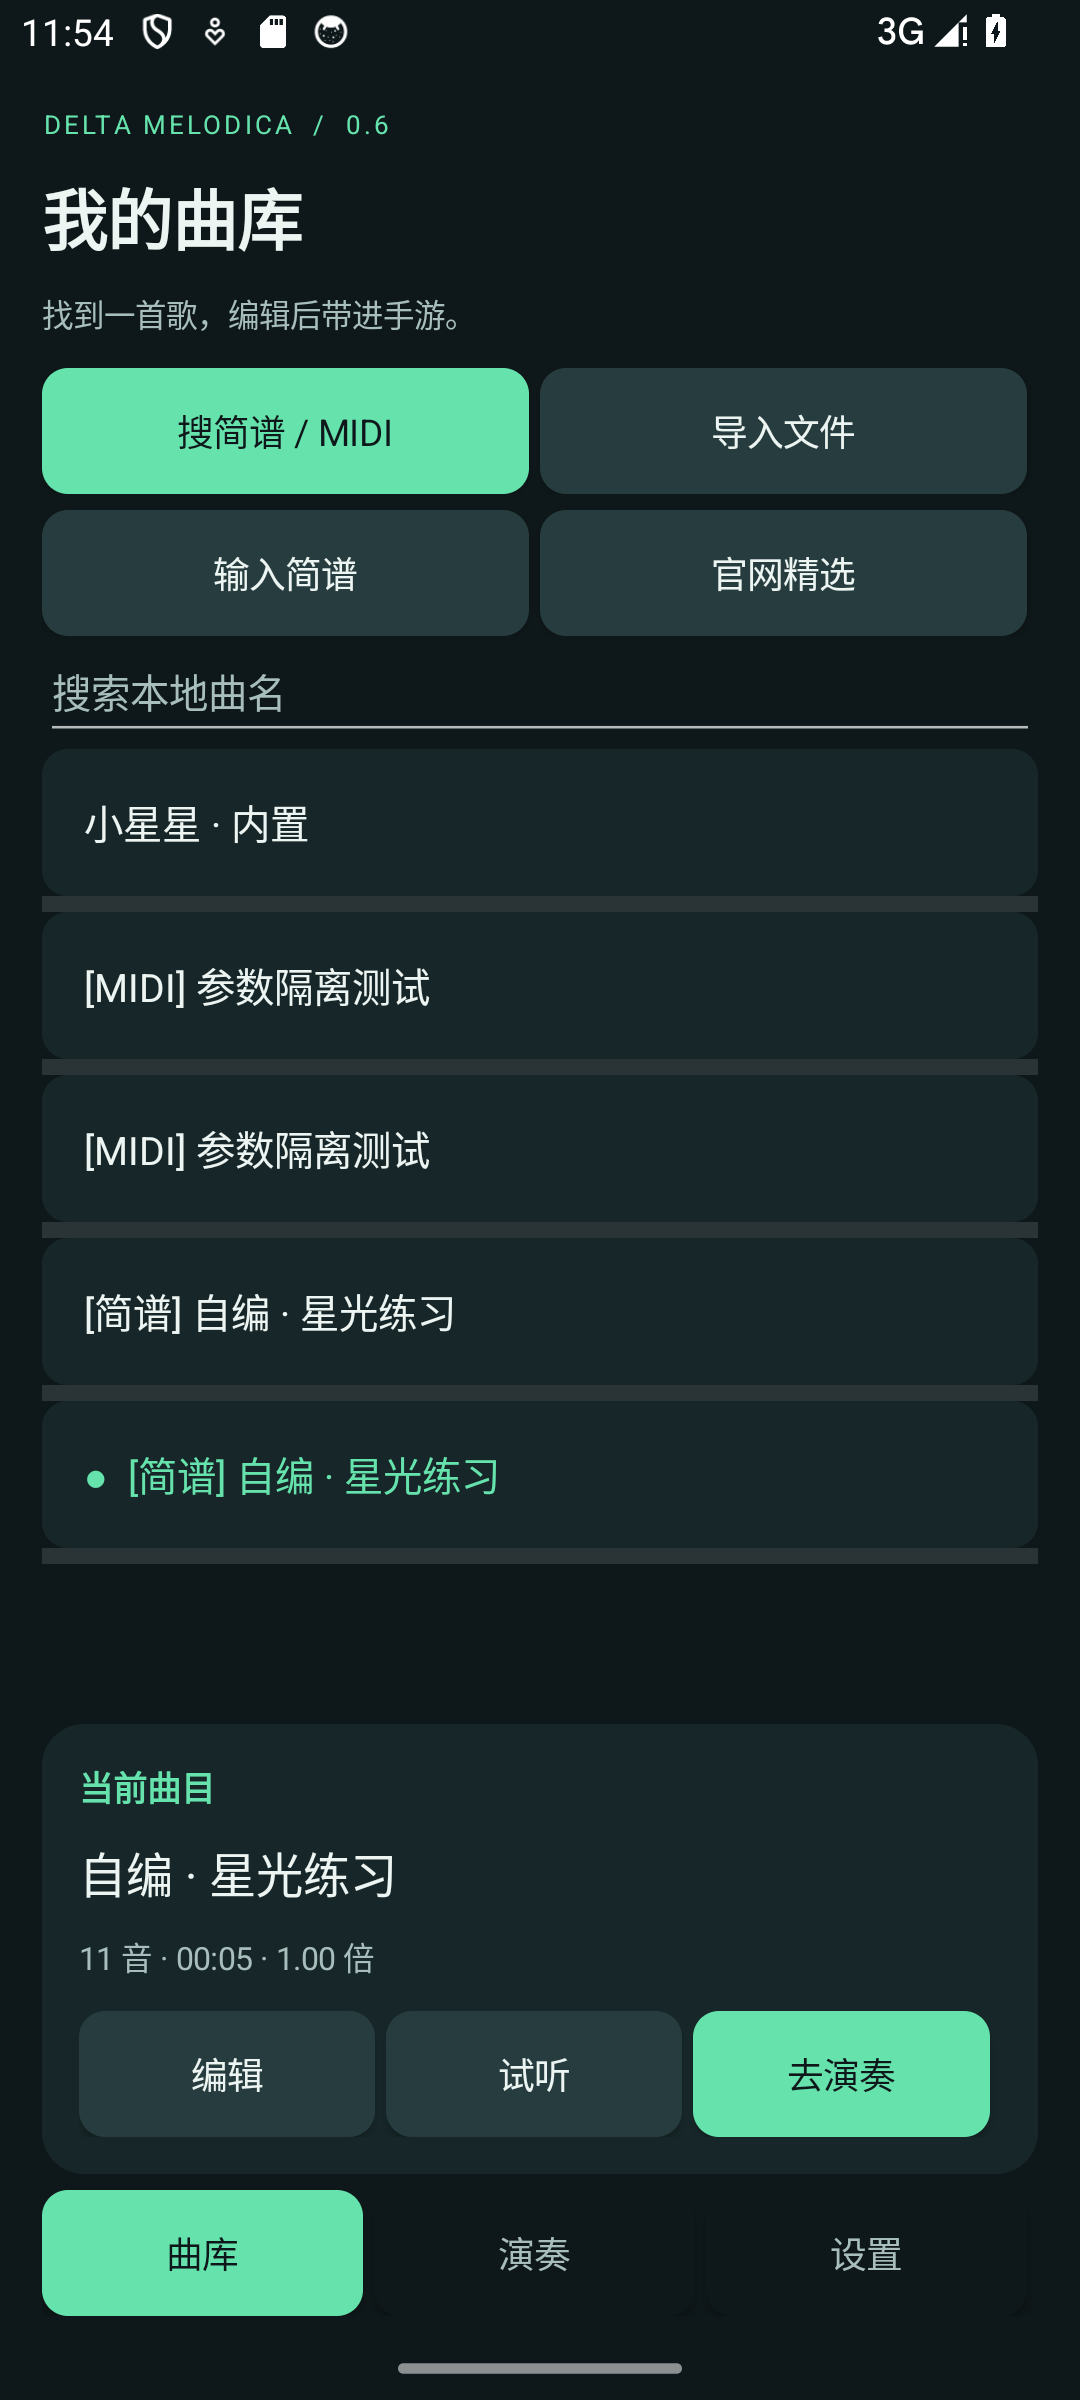
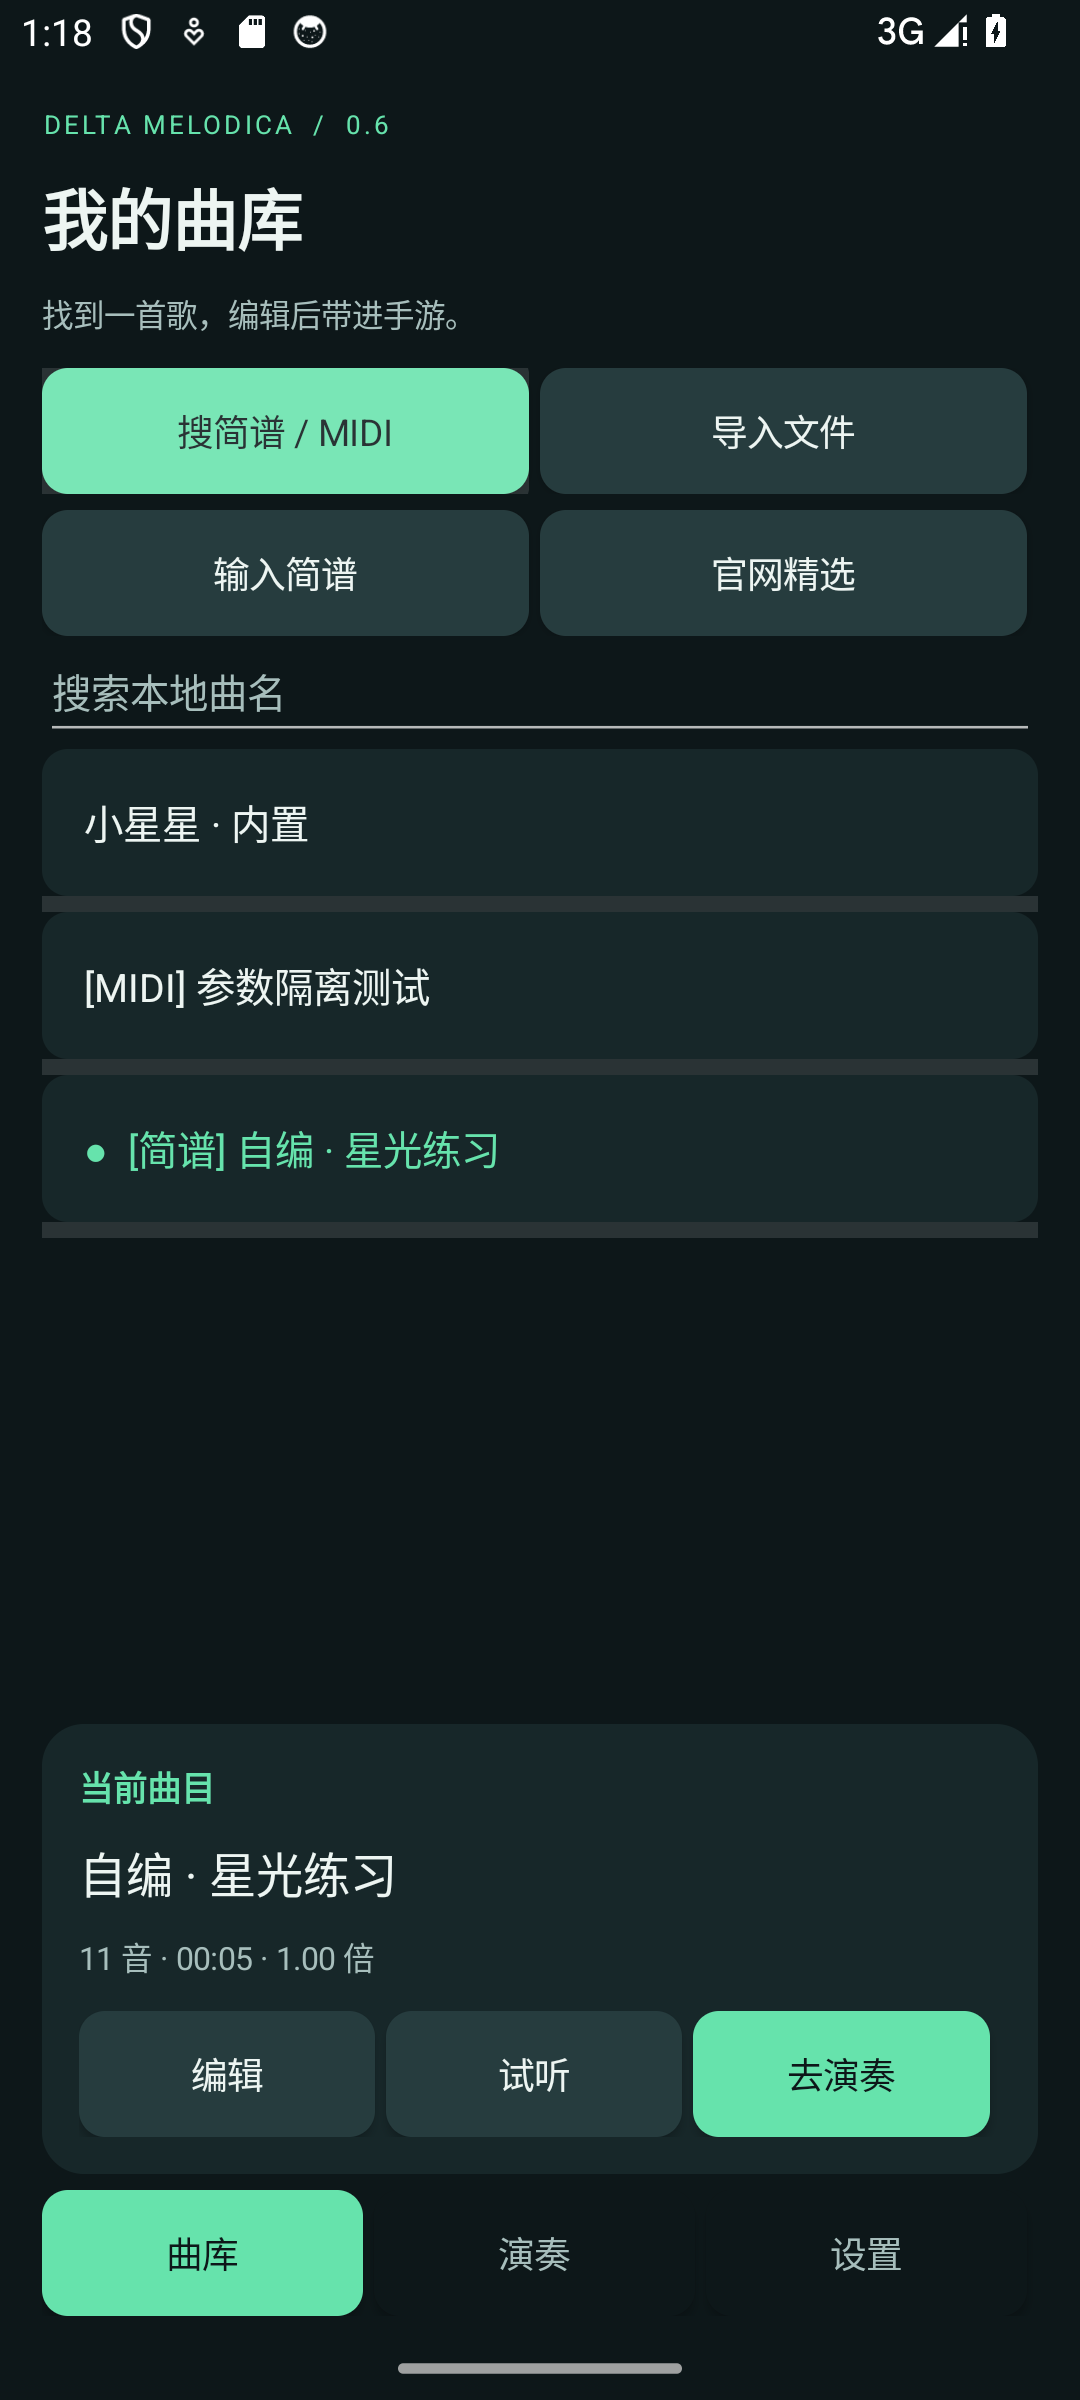
修复手机软键盘编辑布局并完成安卓零点六验证

diff --git a/android/app/src/androidTest/java/top/aiygzn/melodica/FeatureChecks.java b/android/app/src/androidTest/java/top/aiygzn/melodica/FeatureChecks.java
@@ -52,6 +52,16 @@ public final class FeatureChecks extends Instrumentation {
             ActivityMonitor monitor = addMonitor(ScoreEditorActivity.class.getName(), null, false);
             click(main, "编辑"); ScoreEditorActivity editor = (ScoreEditorActivity) waitForMonitorWithTimeout(monitor, 5000); removeMonitor(monitor); check(editor != null, "编辑器未打开"); current = editor; idle();
             EditText notes = (EditText) field(editor, "notes"); check(source.contentEquals(notes.getText()), "重开未保留原谱"); screenshot("editor-text");
+            if (layout.equals("keyboard")) {
+                ui(() -> { check(notes.requestFocusFromTouch(), "谱文无法获得焦点"); notes.setSelection(notes.length()); ((android.view.inputmethod.InputMethodManager) editor.getSystemService(android.content.Context.INPUT_METHOD_SERVICE)).showSoftInput(notes, android.view.inputmethod.InputMethodManager.SHOW_IMPLICIT); });
+                SystemClock.sleep(1400); screenshot("editor-keyboard");
+                View scrolling = (View) field(editor, "textScroll");
+                report.append("键盘布局：编辑区=").append(scrolling.getHeight()).append(" 像素，谱文焦点=").append(notes.hasFocus()).append('\n');
+                check(scrolling.getHeight() >= Ui.dp(editor, 90), "软键盘挤占了编辑区");
+                check(notes.hasFocus(), "谱文输入焦点丢失"); sendStringSync(" 1"); check(notes.getText().toString().equals(source + " 1"), "键盘输入未进入谱文"); ui(() -> notes.setText(source));
+                visible(editor, "另存到曲库");
+                ui(() -> ((android.view.inputmethod.InputMethodManager) editor.getSystemService(android.content.Context.INPUT_METHOD_SERVICE)).hideSoftInputFromWindow(notes.getWindowToken(), 0)); idle();
+            }
             int firstNote = source.indexOf("1_"); ui(() -> notes.setSelection(firstNote, source.indexOf("[1")));
             click(editor, "试听选中"); SystemClock.sleep(100); check(((PreviewPlayer) field(editor, "player")).playing(), "选段试听未开始"); click(editor, "停止");
             if (!layout.startsWith("landscape")) click(editor, "谱面"); screenshot("editor-score"); visible(editor, "另存到曲库"); visible(editor, "试听全曲");
@@ -65,6 +75,9 @@ public final class FeatureChecks extends Instrumentation {
             report.append("通过：原谱重开、选段试听、谱面跟随、错误阻止、另存副本及原曲保留\n");
             monitor = addMonitor(SearchActivity.class.getName(), null, false); click(main, "搜简谱 / MIDI");
             SearchActivity search = (SearchActivity) waitForMonitorWithTimeout(monitor, 5000); removeMonitor(monitor); check(search != null, "聚合搜索入口未打开"); current = search; idle();
+            if (layout.equals("keyboard")) {
+                EditText query = (EditText) field(search, "query"); ui(() -> { query.requestFocusFromTouch(); ((android.view.inputmethod.InputMethodManager) search.getSystemService(android.content.Context.INPUT_METHOD_SERVICE)).showSoftInput(query, 0); }); SystemClock.sleep(1000);
+            }
             visible(search, "聚合搜索"); visible(search, "返回曲库"); boolean[] sources = (boolean[]) field(search, "sources"); for (boolean enabled : sources) check(enabled, "未默认启用所有来源"); screenshot("search");
             ui(search::finish); current = main; idle(); report.append("通过：聚合搜索页面、五个来源默认全选、返回入口\n");
         } catch (Throwable error) { code = Activity.RESULT_CANCELED; report.append("失败：").append(android.util.Log.getStackTraceString(error)); }

diff --git a/android/app/src/main/java/top/aiygzn/melodica/ScoreEditorActivity.java b/android/app/src/main/java/top/aiygzn/melodica/ScoreEditorActivity.java
@@ -85,6 +85,19 @@ public final class ScoreEditorActivity extends Activity {
             area.addView(split, new android.widget.FrameLayout.LayoutParams(-1, -1));
         }
         player = new PreviewPlayer(this, this::onProgress);
+        // 键盘可能首先聚焦曲名；先收起说明区，避免谱文被压成零高后无法获得焦点。
+        getWindow().getDecorView().setOnApplyWindowInsetsListener((view, insets) -> {
+            boolean keyboard = android.os.Build.VERSION.SDK_INT >= 30
+                ? insets.isVisible(android.view.WindowInsets.Type.ime())
+                : insets.getSystemWindowInsetBottom() > Ui.dp(this, 160);
+            boolean landscape = getResources().getConfiguration().orientation == android.content.res.Configuration.ORIENTATION_LANDSCAPE;
+            root.getChildAt(0).setVisibility(keyboard || landscape ? View.GONE : View.VISIBLE); root.getChildAt(1).setVisibility(keyboard || landscape ? View.GONE : View.VISIBLE);
+            title.setVisibility(keyboard && !title.hasFocus() ? View.GONE : View.VISIBLE); options.setVisibility(keyboard && !bpm.hasFocus() ? View.GONE : View.VISIBLE);
+            tabs.setVisibility(keyboard || landscape ? View.GONE : View.VISIBLE);
+            int lines = keyboard || landscape ? 1 : 3; if (status.getMaxLines() != lines) status.setMaxLines(lines);
+            return view.onApplyWindowInsets(insets);
+        });
+        root.getViewTreeObserver().addOnGlobalFocusChangeListener((oldFocus, newFocus) -> getWindow().getDecorView().requestApplyInsets());
         Ui.watch(notes, () -> {
             if (changing) return; String current = notes.getText().toString();
             if (!current.equals(previousText)) { undo.add(previousText); if (undo.size() > 30) undo.remove(0); redo.clear(); previousText = current; changed(); }

diff --git a/android/app/src/main/java/top/aiygzn/melodica/SearchActivity.java b/android/app/src/main/java/top/aiygzn/melodica/SearchActivity.java
@@ -62,6 +62,14 @@ public final class SearchActivity extends Activity {
             root.removeView(query); actions.addView(query, 0, new LinearLayout.LayoutParams(0, -2, 2));
             status.setMaxLines(2);
         }
+        getWindow().getDecorView().setOnApplyWindowInsetsListener((view, insets) -> {
+            boolean keyboard = android.os.Build.VERSION.SDK_INT >= 30 ? insets.isVisible(android.view.WindowInsets.Type.ime()) : insets.getSystemWindowInsetBottom() > Ui.dp(this, 160);
+            boolean landscape = getResources().getConfiguration().orientation == android.content.res.Configuration.ORIENTATION_LANDSCAPE;
+            root.getChildAt(0).setVisibility(keyboard ? android.view.View.GONE : android.view.View.VISIBLE);
+            root.getChildAt(1).setVisibility(keyboard || landscape ? android.view.View.GONE : android.view.View.VISIBLE);
+            int lines = keyboard ? 1 : landscape ? 2 : 3; if (status.getMaxLines() != lines) status.setMaxLines(lines);
+            return view.onApplyWindowInsets(insets);
+        });
         if (state != null && state.getBooleanArray("sources") != null) {
             System.arraycopy(state.getBooleanArray("sources"), 0, sources, 0, sources.length); int count = 0; for (boolean enabled : sources) if (enabled) count++;
             filters.setText("已选 " + count + " 个来源 · 点此选择");

diff --git a/验证记录.md b/验证记录.md
@@ -1,5 +1,17 @@
 # 验证记录
 
+## 2026-09-13：安卓 0.6 功能同步与手机布局
+
+- 在独立工作区 `work/android-feature-sync`、分支 `codex/android-feature-sync` 完成，避免混入并行中的桌面修改。同步五来源聚合搜索、两种原谱规则、原文编辑与精确音符编辑、谱面定位和试听跟随、片段编排、每曲参数及悬浮进度定位；修正游客继承与退出后的曲库可见性。界面改为「曲库／演奏／设置」，横屏曲库和编辑器并排，键盘弹出时收起说明区。功能范围及操作见 [安卓说明](android/README.md)。
+- `android/build.ps1` 完整执行 `clean testDebugUnitTest assembleDebug lintDebug`：42 个单元测试中 41 个通过、1 个可选联网用例跳过，零失败；联网用例另行实际运行通过。编辑回归内含 94 组桌面生成的两模式原谱基准，逐项对照音高、时值、连奏、原文位置及非法结构，毫秒精度内一致。Lint 为 0 errors、39 warnings，保留现有接口弃用、布局及兼容性提示，没有将警告描述为已全部消除。
+- Android 14 / API 34 专用 Pixel_6 模拟器安装实际 APK，FeatureChecks 使用自编谱与临时数据通过：每曲参数隔离及重建、三页导航、真实 AudioTrack 启停、原谱重开、选区试听、谱面跟随、非法输入阻止、另存保留原曲、五来源全选及返回。检查 1080×2400 / 420 dpi 竖屏、1280×720 / 160 dpi 横屏、1280×720 / 320 dpi 手机横屏、720×1280 / 320 dpi 窄屏；检查实际截图和按钮可见边界。窄屏额外展示系统软键盘并输入文字，确认谱文焦点、至少 90 dp 编辑区、完整保存／搜索／返回按钮以及收起后的恢复。
+- 手机布局检查发现并修正：横屏上下排列挤压编辑内容、水平按钮底部裁切、键盘缩小窗口造成谱文零高度和焦点丢失、搜索页返回按钮被挤出屏幕。最后键盘检查编辑区为 227 像素（113.5 dp），输入与恢复通过。测试曾因错误断言歌词行中的 `@`、模拟焦点和键盘初始状态失败，修正测试场景后按实际输入重新检查；未将失败轮次计为通过。[主页面](android/docs/main-v06.png)、[谱面](android/docs/score-v06.png)、[手机横屏编辑](android/docs/editor-landscape-v06.png)、[软键盘输入](android/docs/editor-keyboard-v06.png)均为自编谱实截图。
+- GestureSmokeTest 16 项通过，包含持续音释放、暂停／续播、停止归零、进度定位后释放并暂停、半音重新确认、收起限制、目标前台和旋转校准检查；权限回归 5 项通过。测试仅向自建键盘发触摸，未运行 `--game-test` 或接触真实游戏。测试结束恢复模拟器分辨率、密度与原无障碍状态。
+- AccountChecks 使用假服务、不注册真实账号、不发邮件，验证真实 Keystore、继承断网重试、游客原文件保留、重复同步、账号隔离及云下载；追加每曲设置继承和账号／游客独立验证，通过。官网 UI 回归 5 项通过，实际校验当时 6 首 MIDI 的大小、SHA-256 与解析，覆盖搜索、无结果、27 首样例分页、取消、选用、重复下载去重及关闭后的旧回调隔离。
+- 聚合联网检查：简谱空间「青花瓷」解析 527 音；BitMidi「star」15 条结果并下载转换 409 个原始音符；MidiWorld「star」30 条并转换 2281 个原始音符。MidiShow 有一轮返回 20 条，另一轮遇到 Cloudflare，正确标记需浏览器验证并保留源站入口，没有绕过验证。网上完整曲谱未提交，联网记录保存在忽略的 `work/android/v06-live-search.xml`。
[1 lines of base64/hex data omitted]
+- 代码已分阶段本地提交。本机 `.git/hooks/pre-push` 按此前「手机端暂时仅本地」要求拦截含安卓历史的推送，本轮未绕过，等待用户明确允许安卓分支公开。未修改官网公开下载包。真机系统兼容、手游内音色和手势时序仍需实际试奏；模拟器检查不代替游戏结论，Android 8～13／15+ 尚未实测。图片／PDF 识谱、音频扒谱、印刷级制谱和云端原文同步未包含在此版。
+
 ## 2026-09-13：搜索来源默认全部勾选
 
 - 打开「搜简谱 / MIDI」时，简谱空间、官网曲库、BitMidi、MidiWorld、MidiShow 五个来源默认全部勾选；可手动取消，重新打开窗口时恢复全选。同步更新窗口提示、README、既有默认值回归和成品冒烟断言。

diff --git a/android/README.md b/android/README.md
@@ -6,7 +6,7 @@ Android 8.0+，无需 Root。本版同步近期桌面版的搜索、编辑、原
 
 - **三页导航**：曲库、演奏、设置。本地曲名筛选、来源标记、当前曲目卡片，以及搜索、导入、编辑和试听入口。竖屏单列，横屏并排，按钮随字体增高。
 - **五来源聚合搜索**：简谱空间、官网曲库、BitMidi、MidiWorld、MidiShow，默认全选；支持繁简体匹配、逐站返回、加载更多、取消与源站浏览器入口。区分无结果、网络错误和人机验证。
-- **全屏乐曲编辑**：MIDI、输入简谱、内置与云端曲谱均可编辑。精确音符／原谱格式、常用符号、调号、速度、移调、撤销／重做、全曲／选段试听与另存修改版。原曲保留，未保存返回时提示，旋转保留草稿和选区。
+- **全屏乐曲编辑**：MIDI、输入简谱、内置与云端曲谱均可编辑。精确音符／原谱格式、常用符号、调号、速度、移调、撤销／重做、全曲／选段试听与另存修改版。原曲保留，未保存返回时提示，旋转保留草稿和选区。默认先展示完整编辑页；点输入后收起说明区，给软键盘上方的谱文和保存按钮留出空间。搜索页也适配键盘。
 - **原谱与谱面**：保留原文、歌词、来源和解析模式；点谱面定位文字。竖屏切换，横屏左右并排。试听按实际音频位置高亮和滚动，反复回到原音符；每页最多 128 个符号，支持手动与自动翻页。
 - **每曲设置**：原谱分音／钢琴适配连奏，0.25～2 倍速、±24 半音移调，自动／指定／全部音轨。速度、移调、音轨、方式和片段按游客／账号分别保存；改参数会停止并回到曲首。
 - **片段编排与定位**：按原曲秒数添加、更新、排序、删除、重复或清空。最多 100 段，每段重复 1～20 次。悬浮窗拖动进度后暂停并释放旧触摸，继续前重新确认半音状态。
@@ -18,6 +18,8 @@ Android 8.0+，无需 Root。本版同步近期桌面版的搜索、编辑、原
 ![原谱预览](docs/score-v06.png)
 
 ![横屏编辑](docs/editor-landscape-v06.png)
+
+![窄屏输入](docs/editor-keyboard-v06.png)
 
 ## 使用
 
